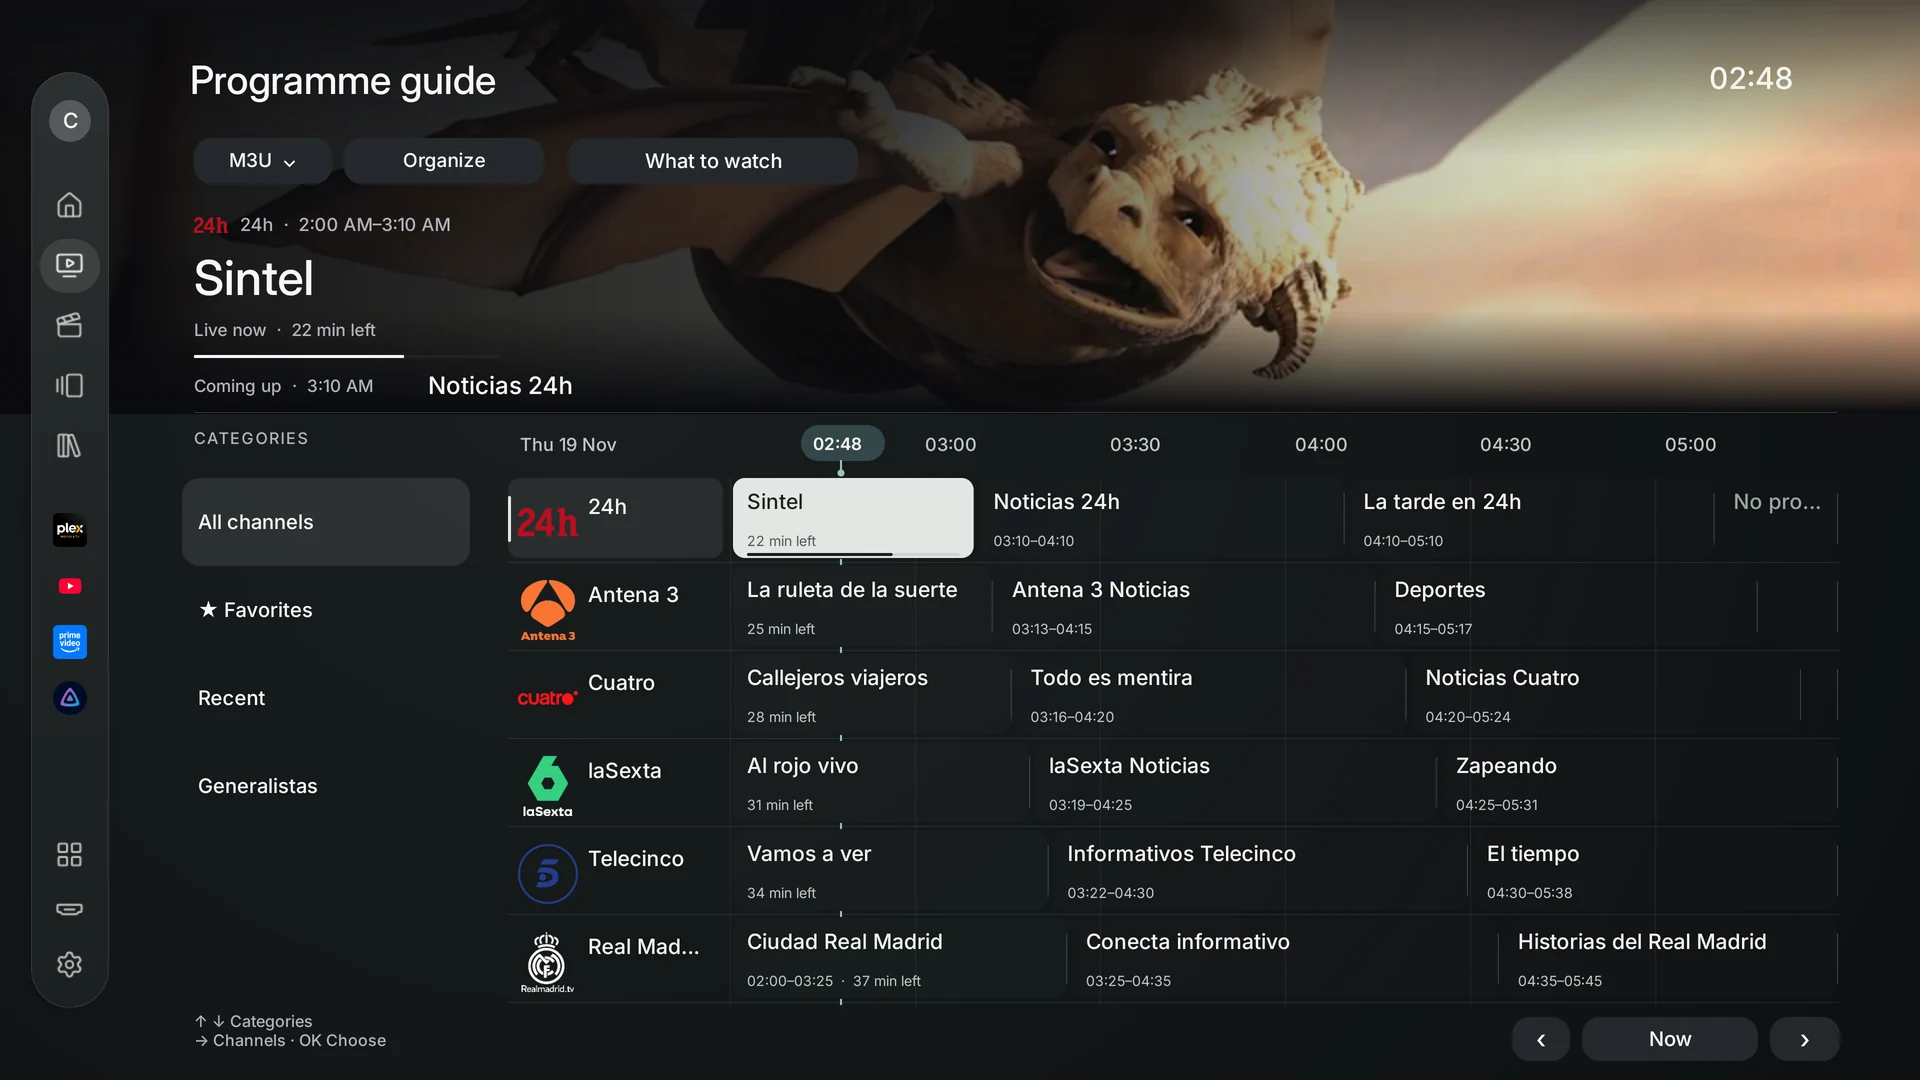
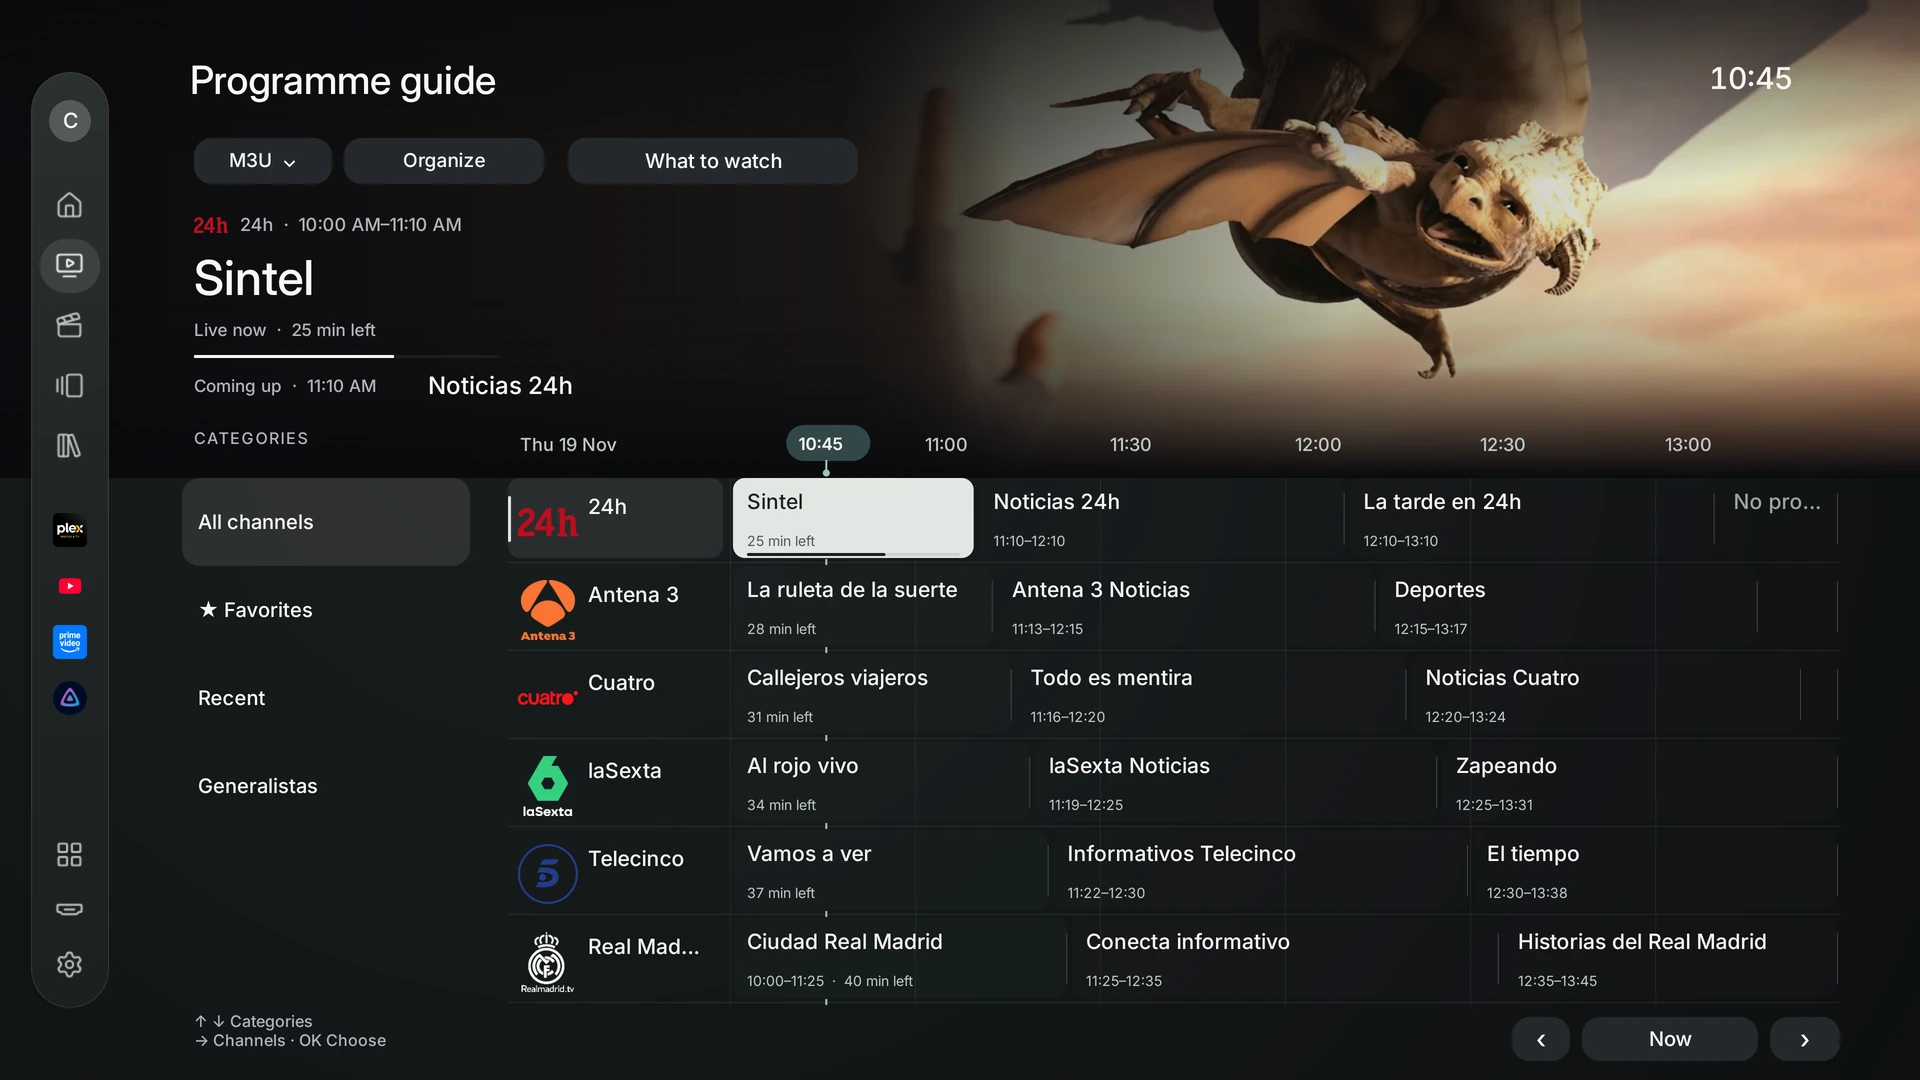
Offer the verified 2.6.5 preview and show the new guide framing

diff --git a/README.md b/README.md
@@ -62,7 +62,7 @@ Your **M3U, Xtream or antenna channels**, in the same place as the rest of your 
 | --- | --- |
 | [![Channel information over the live picture](gallery/previews/160-on-air.webp)](gallery/160-on-air.webp) | [![Playback controls](gallery/previews/161-live-controls.webp)](gallery/161-live-controls.webp) |
 
-The guide opens on categories while channels load. The selected programme fills the guide header when the listings provide artwork. A soft fade keeps the channel, title and times legible. Portrait posters keep their full height. Press **OK** inside a channel for its schedule, **Left** for playback controls and **Right** for the channel list. Demo footage and stills from *Sintel* by the Blender Foundation. [Film](https://durian.blender.org/) · [CC BY 3.0](https://creativecommons.org/licenses/by/3.0/).
+The guide opens on categories while channels load. When a listing has artwork, the guide shows the complete photo beside the programme details. Colours from the picture fade behind the time ruler and into the first channel row. Press **OK** inside a channel for its schedule, **Left** for playback controls and **Right** for the channel list. Demo footage and stills from *Sintel* by the Blender Foundation. [Film](https://durian.blender.org/) · [CC BY 3.0](https://creativecommons.org/licenses/by/3.0/).
 
 **Playback that adapts.** Automatic engine selection remembers working HLS/TS formats, with Fast, Balanced and Stable buffer profiles and bounded recovery. M3U headers follow their own signal. [Playback options and limits](guide/PLAYBACK.md).
 

diff --git a/gallery/README.md b/gallery/README.md
@@ -70,7 +70,7 @@ Programme names and times in this tour are synthetic, with original channel logo
 | --- | --- |
 | [![Channel information over the live picture](previews/160-on-air.webp)](160-on-air.webp) | [![Playback controls](previews/161-live-controls.webp)](161-live-controls.webp) |
 
-The guide opens on categories. The selected programme fills the guide header when the listings provide artwork. A soft fade keeps the channel, title and times legible. Portrait posters keep their full height. Press **OK** inside a channel for its schedule, **Left** for playback controls and **Right** for the channel list. Demo footage and stills from *Sintel* by the Blender Foundation. [Film](https://durian.blender.org/) · [CC BY 3.0](https://creativecommons.org/licenses/by/3.0/).
+The guide opens on categories. When a listing has artwork, the guide shows the complete photo beside the programme details. Colours from the picture fade behind the time ruler and into the first channel row. Press **OK** inside a channel for its schedule, **Left** for playback controls and **Right** for the channel list. Demo footage and stills from *Sintel* by the Blender Foundation. [Film](https://durian.blender.org/) · [CC BY 3.0](https://creativecommons.org/licenses/by/3.0/).
 
 | Your channel order | Something to watch now |
 | --- | --- |
